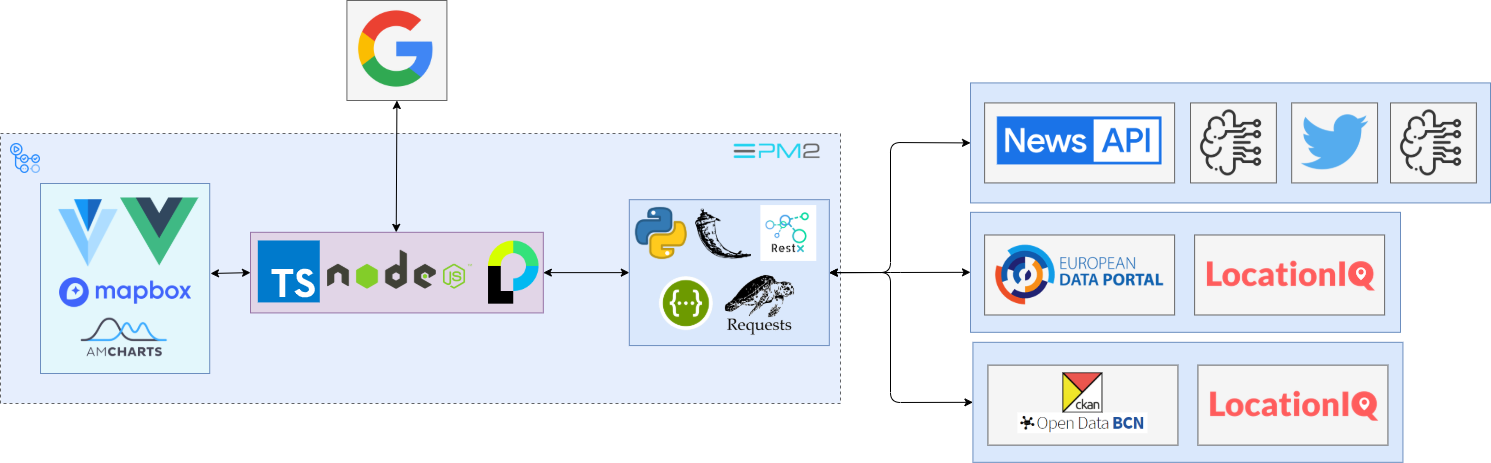
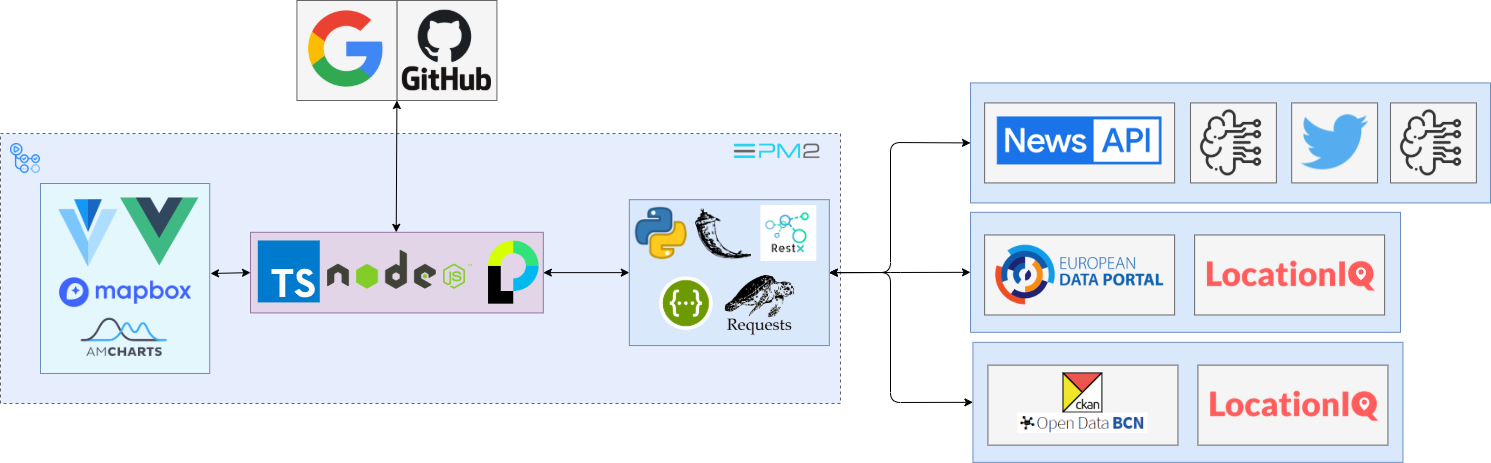
web update

Changed region(s): [[0.1851, 0.0, 0.3394, 0.2117], [0.7096, 0.8769, 0.7404, 0.9374]]

diff --git a/soa-web-app/vue-web/src/views/Home.vue b/soa-web-app/vue-web/src/views/Home.vue
@@ -12,22 +12,33 @@
 			
 			<v-spacer />
 			<v-spacer />
-			
+
 			<v-btn 
 				raised
-				color="#1DA1F2"
+				color="#E1E8ED"
 				@click="loginGoogle"
 			>	
-				<p class="mytext" >Google</p>
+				<v-img 
+					contain
+					width="20px"
+					height="20px"
+					src="img/google.png"
+				/>
 			</v-btn>
 
 			<v-btn 
 				raised
-				color="#1DA1F2"
+				color="#E1E8ED"
 				@click="loginGitHub"
 			>	
-				<p class="mytext" >GitHub</p>
+				<v-img 
+					contain
+					width="20px"
+					height="20px"
+					src="img/github.png"
+				/>
 			</v-btn>
+
 		</v-toolbar>
 
 		<div :id="particles.id" class="particles-js theBackground text-center">
@@ -73,6 +84,7 @@ export default {
 	name: "Home",
 	data() {
 		return {
+			mydialog: false,
 			baseUrl: "https://soa.servehttp.com",
 			particles: {
 				id: "particles-instance-" + Math.floor(Math.random() * 5000),
@@ -312,7 +324,7 @@ export default {
 }
 
 .mytitle {
-	color: #1DA1F2;  
+	color: #1DA1F2;	
 	font-family: "Helvetica Neue", Roboto, "Segoe UI", Calibri, sans-serif;
 	font-weight: bold;
 }
@@ -321,6 +333,12 @@ export default {
 	color:#F5F8FA;
 	font-weight: bold;
 	font-family: "Helvetica Neue", Roboto, "Segoe UI", Calibri, sans-serif;
+}
+
+.v-dialog > .v-card > .v-toolbar {
+  position: sticky;
+  top: 0;
+  z-index: 999;
 }
 
 </style>
